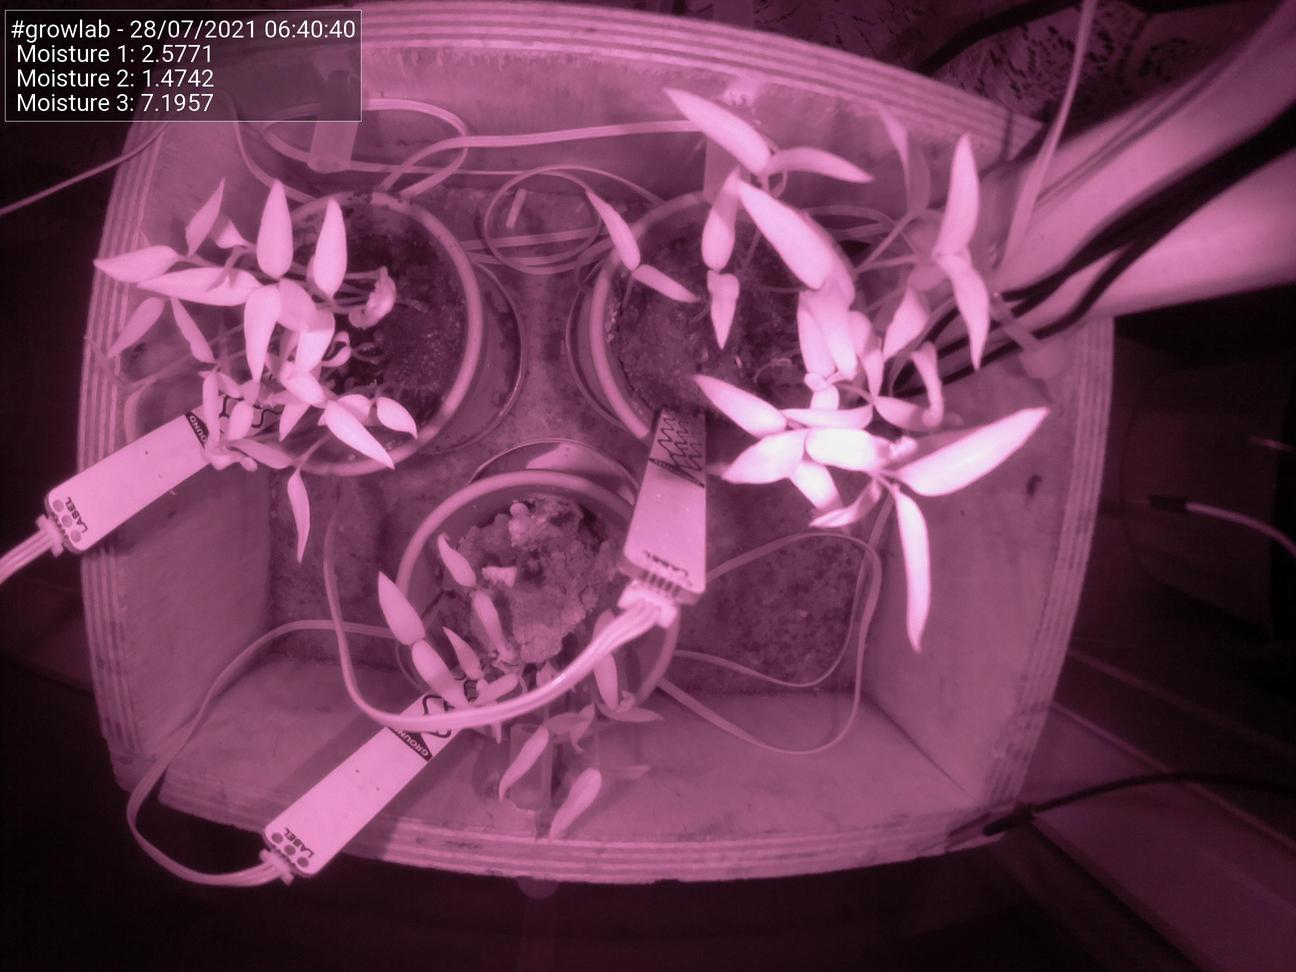
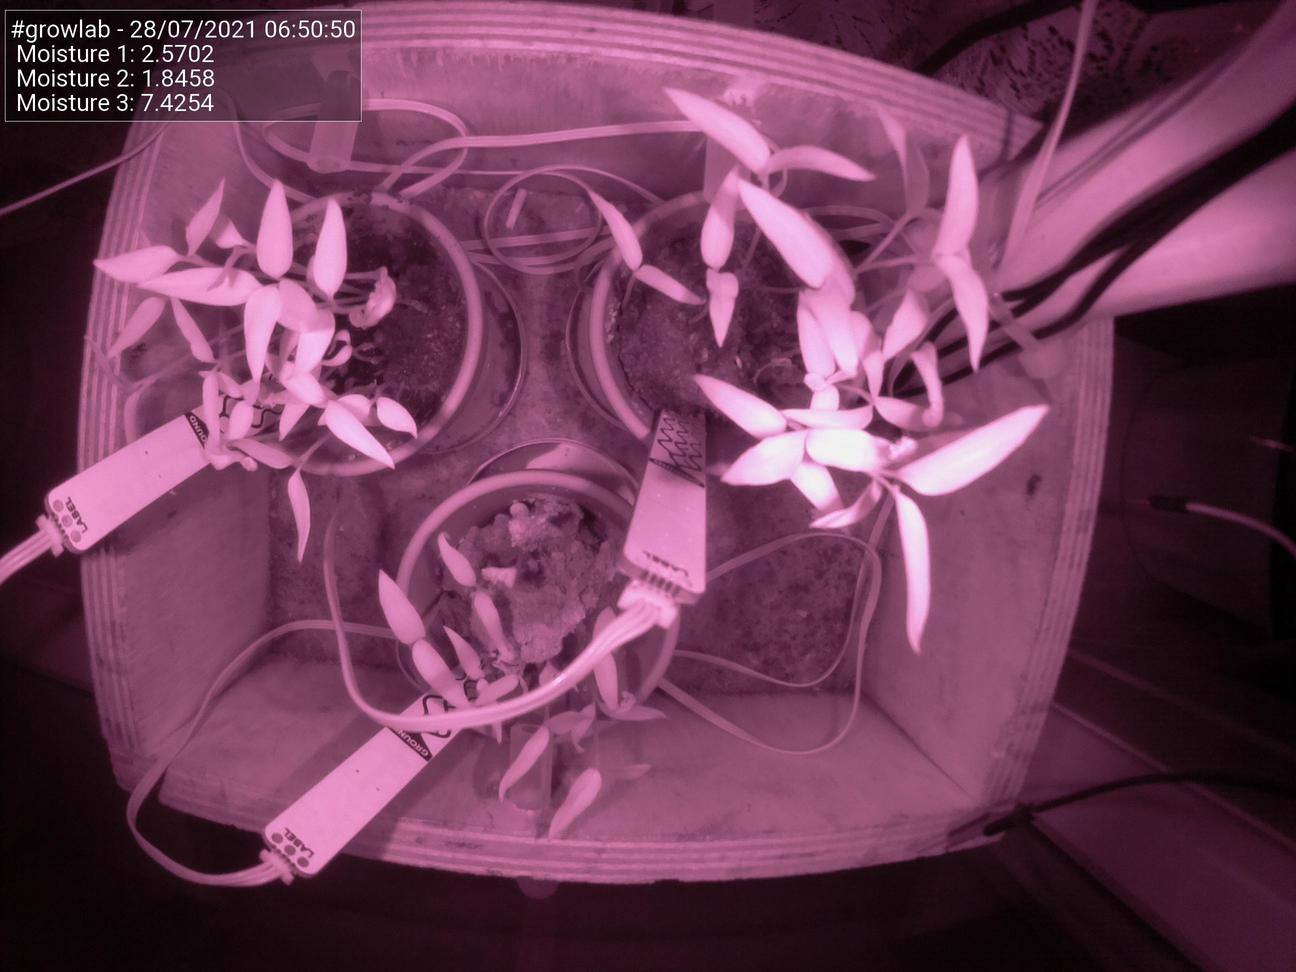
Update images at Wed 28 Jul 06:50:56 BST 2021

diff --git a/docs/index.html b/docs/index.html
@@ -51,25 +51,25 @@
                                 <td>Date</td>
                                 <td>28/07/2021</td>
                                 <td>Time</td>
-                                <td>06:40:40</td>
+                                <td>06:50:50</td>
                             </tr>
                             <tr>
                                 <td>Temperature</td>
                                 <td>N/A</td>
                                 <td>Moisture 1</td>
-                                <td>2.5771</td>
+                                <td>2.5702</td>
                             </tr>
                             <tr>
                                 <td>Humidity</td>
                                 <td>N/A</td>
                                 <td>Moisture 2</td>
-                                <td>1.4742</td>
+                                <td>1.8458</td>
                             </tr>
                             <tr>
                                 <td>Pressure</td>
                                 <td>N/A</td>
                                 <td>Moisture 3</td>
-                                <td>7.1957</td>
+                                <td>7.4254</td>
                             </tr>
                         </tbody>
                     </table>
@@ -77,7 +77,7 @@
 
                 <h5>Latest image</h5>
                 <div style="width: 85%;">
-                            <img class="figure-img img-fluid rounded" src="./preview.jpg?uid=1627450845.9895406">
+                            <img class="figure-img img-fluid rounded" src="./preview.jpg?uid=1627451455.9343112">
                 </div>
             </div>
         </div>
